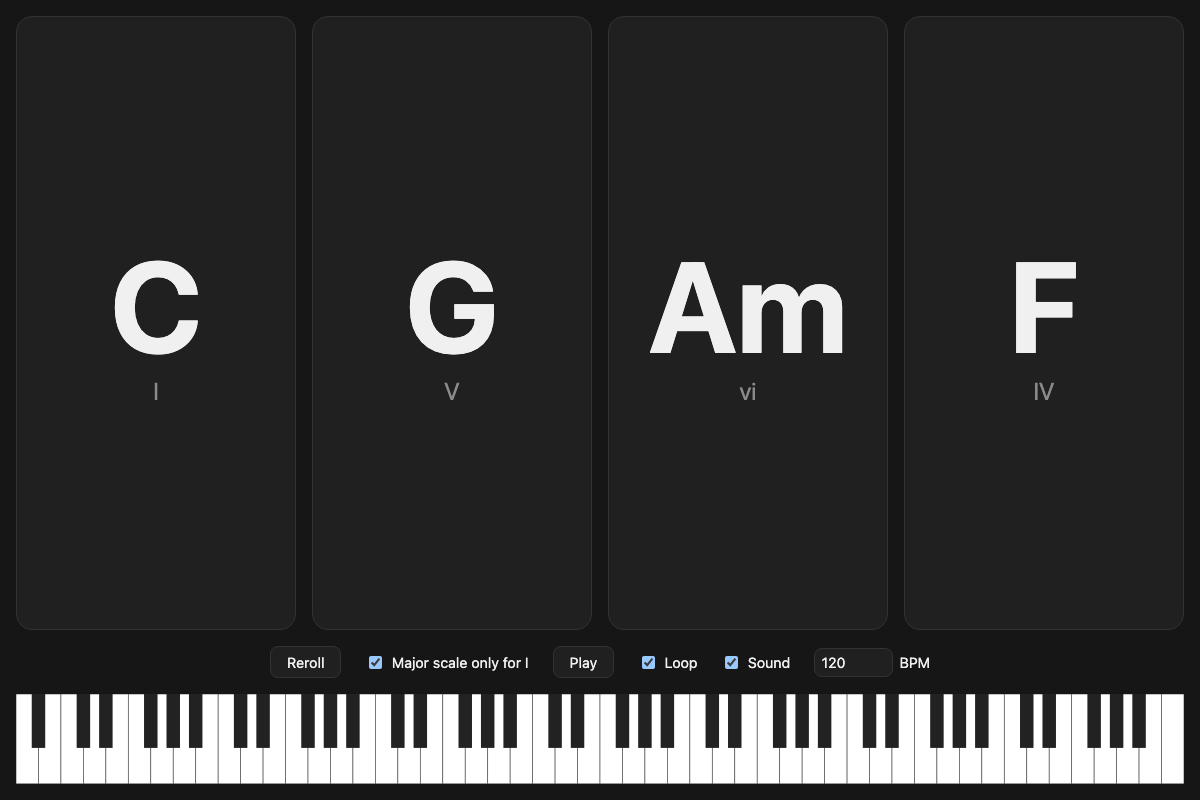
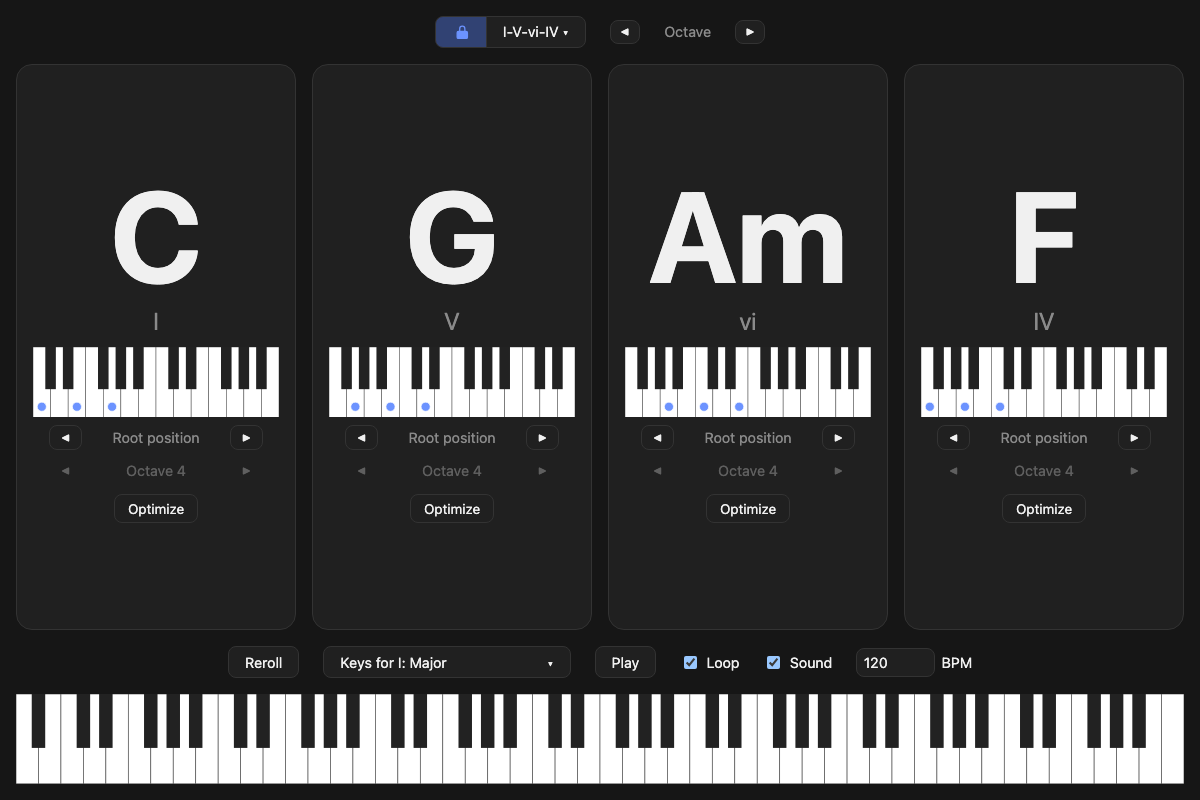
Update README and screenshot for the current app

diff --git a/README.md b/README.md
@@ -1,15 +1,18 @@
 # chordgen
 
-A I–V–vi–IV chord progression generator with piano diagrams, inversions, octaves and playback.
+A chord progression generator with piano diagrams, inversions, octaves and playback.
 
 ![chordgen showing a C–G–Am–F progression above a full piano keyboard](docs/screenshot.png)
 
 ## Features
 
-- **Random progressions**: reroll to get the I–V–vi–IV progression in a new key.
-- **Piano diagrams**: click a chord to see its voicing on a keyboard.
-- **Inversions and octaves**: step each chord through its inversions and octaves independently.
-- **Full piano preview**: hover or adjust a chord to see it light up across all 88 keys.
+- **Random progressions**: reroll for a new key, and choose which keys the I chord may land on.
+- **Progression presets**: pick a preset such as I–V–vi–IV or type your own in Roman numerals.
+- **Lock**: when locked, changing one chord's root moves the whole progression with it. Unlock to choose chords independently.
+- **Piano diagrams**: each chord shows its voicing on a keyboard.
+- **Inversions and octaves**: step each chord through its inversions and octaves, or shift every octave at once.
+- **Optimize inversions**: pick inversions that keep the voice leading smooth between neighbouring chords.
+- **Full piano preview**: the chord you hover or adjust lights up across all 88 keys.
 - **Playback**: play the progression with sound, loop it and set the tempo (BPM).
 
 ## Getting started
